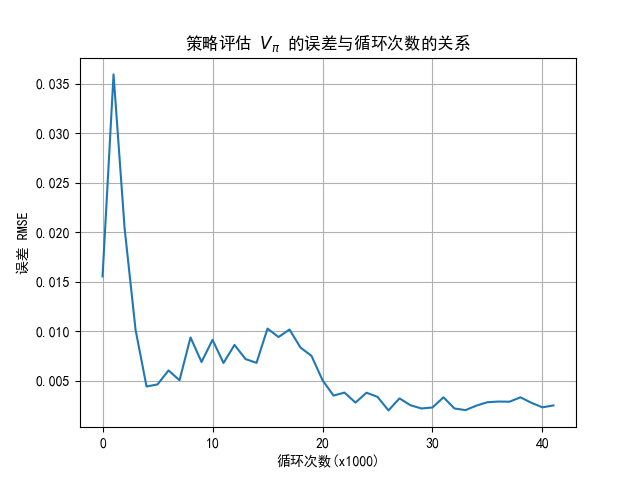
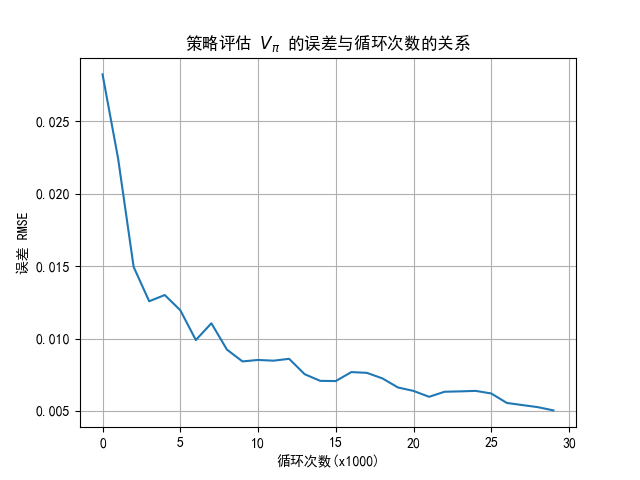
update

diff --git a/基础教程/A7-强化学习/100-冰面行走问题 - 蒙特卡洛预测/src/MC_104_FrozenLake_V_Evaluation.py b/基础教程/A7-强化学习/100-冰面行走问题 - 蒙特卡洛预测/src/MC_104_FrozenLake_V_Evaluation.py
@@ -56,7 +56,7 @@ def MC_EveryVisit_V_Policy_test(env, episodes, gamma, policy, checkpoint=1000, d
 
 if __name__=="__main__":
     gamma = 1
-    episodes = 30000
+    episodes = 10000
     env = gym.make("FrozenLake-v1", desc=None, map_name = "4x4", is_slippery=False)
     # 随机策略
     nA = env.action_space.n
@@ -67,6 +67,8 @@ if __name__=="__main__":
     # MC
     start_state, info = env.reset(seed=5, return_info=True)
     # V = algoMC.MC_EveryVisit_V_Policy(env, start_state, episodes, gamma, policy)
+    V_sum = np.zeros(nS)
+    V_count = 0
     Errors = []
     for i in range(10):
         Errors.append([])
@@ -74,13 +76,11 @@ if __name__=="__main__":
         for V in V_history:
             error = helper.RMSE(V, V_real)
             Errors[i].append(error)
+            V_sum += V
+            V_count += 1
     env.close()
-    EArray = np.array(Errors)
-    
-    Errors = np.mean(EArray, axis=0)
-  
-    
-    
+    EArray = np.array(Errors)  
+    Errors = np.mean(EArray, axis=0)    
 
     print("------ 状态价值函数 -----")
     print(np.reshape(np.round(V,3),(4,4)))
@@ -91,3 +91,8 @@ if __name__=="__main__":
     plt.ylabel(u'误差 RMSE')
     plt.grid()
     plt.show()
+
+    print("------ 平均值 状态价值函数 -----")
+    V_average = V_sum/V_count
+    print(V_average)
+    print(helper.RMSE(V_average, V_real))

diff --git a/基础教程/A7-强化学习/100-冰面行走问题 - 蒙特卡洛预测/4-策略评估 V - 每次访问法.md b/基础教程/A7-强化学习/100-冰面行走问题 - 蒙特卡洛预测/4-策略评估 V - 每次访问法.md
@@ -215,18 +215,17 @@ if __name__=="__main__":
 运行结果：
 
 ```
-循环幕数 = 42000
 ------ 状态价值函数 -----
-[[0.014 0.013 0.021 0.008]
- [0.014 0.    0.042 0.   ]
- [0.031 0.082 0.142 0.   ]
- [0.    0.172 0.445 0.   ]]
-误差 = 0.002499810403461569
+[[0.014 0.012 0.021 0.008]
+ [0.018 0.    0.043 0.   ]
+ [0.039 0.101 0.154 0.   ]
+ [0.    0.187 0.456 0.   ]]
+误差 = 0.006852650015689751
 ```
 
-注意，每次运行得到循环幕数都会不一样，无法控制。理想的情况是运行多次后取误差的平均值（注意不是取 $V_\pi$ 的平均值）。
+注意，每次运行得到循环幕数都会不一样，无法控制。
 
-如果每 1000 个循环都记录一下误差的话，可以得到图 10.4.2 的曲线。
+如果运行 10 次，每次循环 30000 幕，每 1000 次循环记录一次当前的 V 值，并与基准值计算 RMSE 误差，并把这些误差求 10 次平均的话，会得到图 10.4.2。
 
 <center>
 <image src="./img/MC-104-V-Error.png">
@@ -234,5 +233,6 @@ if __name__=="__main__":
 图 10.4.2 误差与循环次数的关系
 </center>
 
-可以看到误差情况很不平稳，这也是蒙特卡洛法的一个特点，不经过几万次的循环，无法得到比较准确的估算值。
+可以看到误差情况不很平稳，如果只看单次运行的误差将会更糟糕，这也是蒙特卡洛法的一个特点，不经过几万次的循环，无法得到比较准确的估算值。
 
+如果想得到比较准确的值，可以多次运行后得到不同的 V 值，然后求这些 V 值的平均值。
